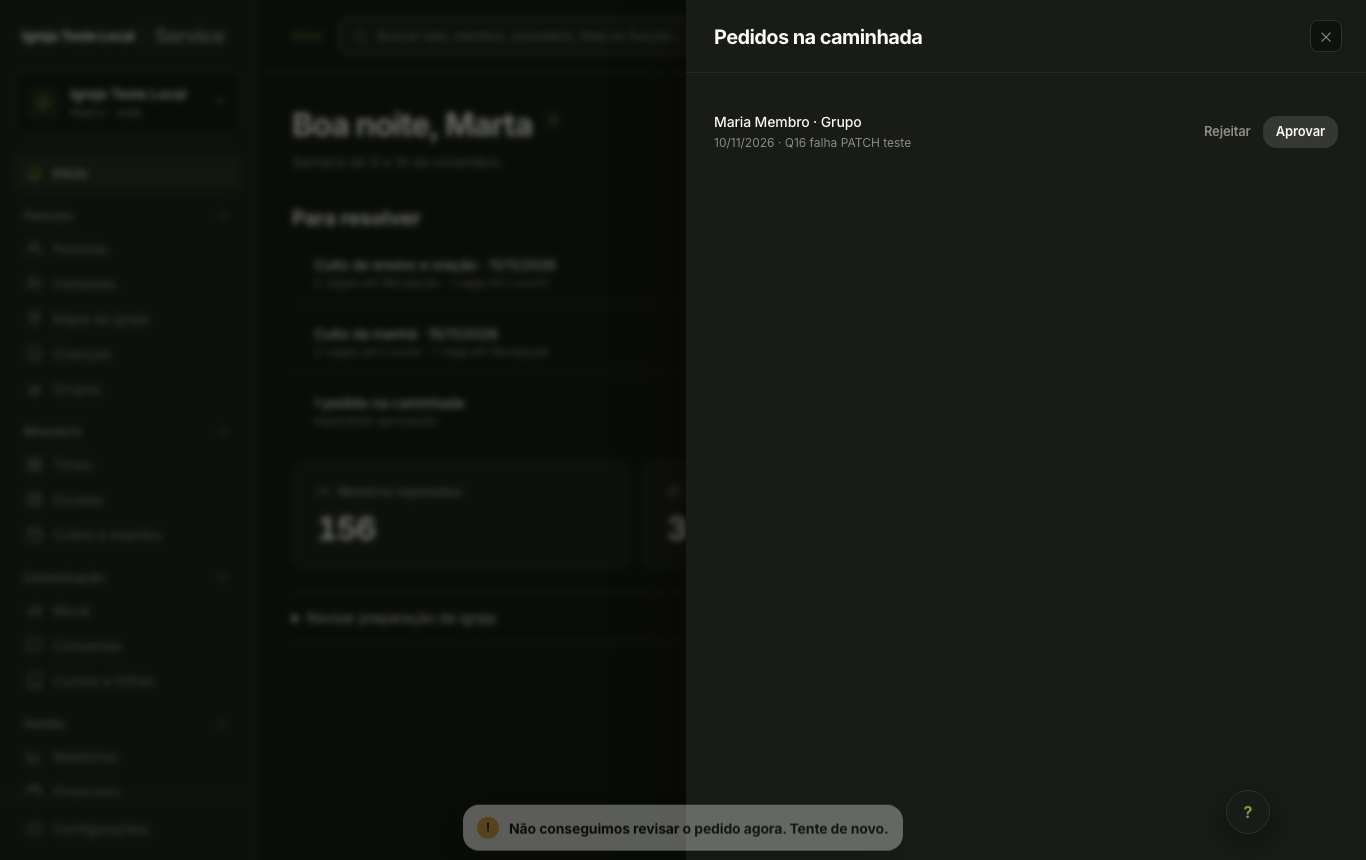
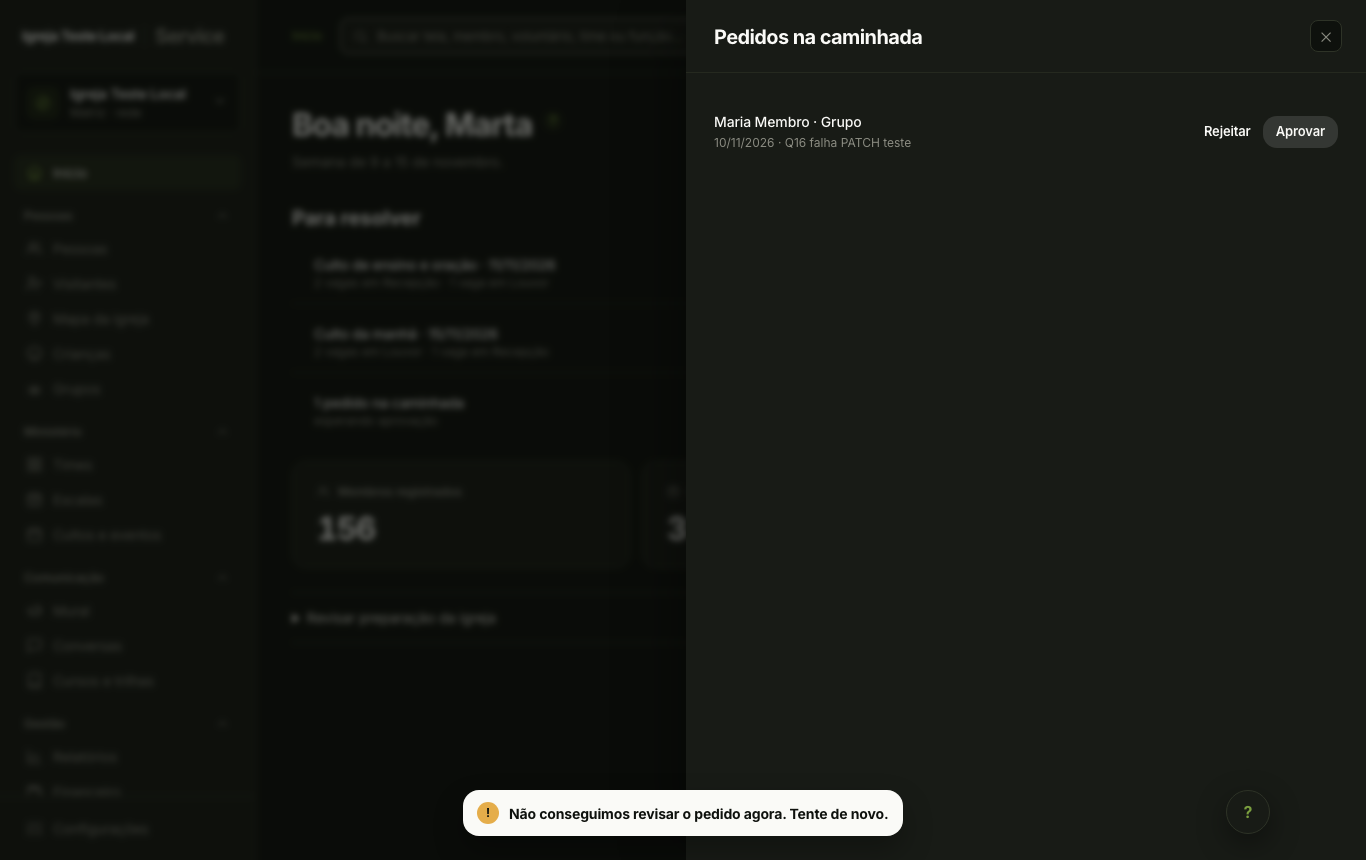
docs(service): refaz fotos de aviso da Q16

Changed region(s): [[0.3382, 0.907, 0.6764, 0.9977], [0.8917, 0.1512, 0.9224, 0.1814]]

diff --git a/docs/service-v7/historias/Q16-pedido-caminhada-uma-vez.md b/docs/service-v7/historias/Q16-pedido-caminhada-uma-vez.md
@@ -71,12 +71,12 @@ A decisão segue a Q15, sem redesenhar alternativas. Como conferência funcional
 
 `writeJourneyStep` agora propaga erros tanto do evento quanto da atualização da jornada e lança erro se não encontra a linha do membro. Aprovar e rejeitar validam o contexto, o membro, o `update` e a linha atualizada. As notificações de resultado só são enviadas após as gravações. A folha captura a rejeição, mantém o pedido e libera os botões no `finally`.
 
-Reprodução no navegador local: interceptado apenas `PATCH /rest/v1/journey_change_requests` e respondido com 500. A foto `Q16-falha.png` mostra a Gaveta com Maria ainda listada, aviso “Não conseguimos revisar o pedido agora. Tente de novo.” e botões ativos. Removida a interceptação, Aprovar retornou PATCH 200; `Q16-recuperado.png` mostra a Gaveta sem pendências e a linha removida (contagem 1 → 0). Ambas as fotos foram abertas; MD5: falha `0217f8d24dc326bd778eb3398a784a95`, recuperação `b63c74b47da8f5f6bbd41beac12ac4d9`.
+Reprodução no navegador local: interceptado apenas `PATCH /rest/v1/journey_change_requests` e respondido com 500. Na nova captura, aguardei o aviso `.toast.toast-warn` ficar visível, `opacity === "1"` e sem animações em execução. A foto `Q16-falha.png` aberta mostra a Gaveta com Maria ainda listada, o texto “Não conseguimos revisar o pedido agora. Tente de novo.” legível e botões ativos. Removida a interceptação, Aprovar retornou PATCH 200; `Q16-recuperado.png` mostra a Gaveta sem pendências e a linha removida (contagem 1 → 0). MD5 da nova falha `682ee44def0ab05e8547e79241599eec`; recuperação `b63c74b47da8f5f6bbd41beac12ac4d9`.
 
 Banco após limpeza: pedido criado para o teste removido, dois eventos de integração gerados pelas tentativas removidos, jornada da Maria restaurada em `[1,1,0,0,1]`; contagem global de pedidos `0`. A falha simulada atingiu o PATCH depois da gravação da etapa, por isso os eventos e o índice da jornada precisaram ser restaurados.
 
 ## Correção do JornadaEditModal antes do merge
 
-`salvar` agora mantém `onRefresh` e `onClose` no caminho de sucesso, avisa com o termo da igreja em caso de falha e sempre redefine `saving` no `finally`. Teste no painel local, ficha de Maria: interceptado `PATCH /rest/v1/members` com 500. `Q16-modal-falha.png` aberta: modal continua aberto, aviso aparece e Salvar está ativo. Sem interceptação, o PATCH real retornou 200 e o modal fechou; `Q16-modal-salvo.png` aberta mostra a ficha. MD5: falha `4ccdcc959309b5ea256c91fd148efd66`, salvo `375c3f84aca541204f924300b3d3a938`.
+`salvar` agora mantém `onRefresh` e `onClose` no caminho de sucesso, avisa com o termo da igreja em caso de falha e sempre redefine `saving` no `finally`. Teste no painel local, ficha de Maria: interceptado `PATCH /rest/v1/members` com 500. Na nova captura, aguardei o aviso `.toast.toast-warn` ficar visível, com `opacity === "1"` e sem animações em execução. `Q16-modal-falha.png` aberta mostra o modal ainda aberto, o aviso “Não conseguimos salvar a caminhada. Tente de novo.” legível e Salvar ativo. Antes de salvar novamente, aguardei `.toast` chegar a zero elementos. Sem interceptação, o PATCH real retornou 200 e o modal fechou; `Q16-modal-salvo.png` aberta não mostra o aviso anterior. MD5: modal-falha `391c99b07d98b05c33fdea5a4ef9e6a3`, modal-salvo `1a89355266acb1c64f93d07aff8a3c02`.
 
-Limpeza: os dois eventos da tentativa foram removidos, jornada da Maria restaurada a `[1,1,0,0,1]`, nenhum pedido pendente. O aviso anterior permanece visível sobre o drawer na captura após fechar o modal; o problema de camada foi adicionado ao PENDENTES, sem correção nesta entrega.
+Limpeza confirmada no banco local: pedido removido, quatro eventos de teste removidos, jornada da Maria restaurada a `[1,1,0,0,1]`, pedidos pendentes `0` e eventos de teste restantes `0`. As três fotos refeitas têm MD5 distintos. O aviso usa `.toast-host` com `z-index: 120`, acima do drawer e do modal; as capturas antigas foram feitas durante o fade ou antes do aviso anterior sair, não havia defeito de camada.

diff --git a/docs/service-v7/PENDENTES.md b/docs/service-v7/PENDENTES.md
@@ -52,7 +52,6 @@ A ordem vai do que destrava mais para o que destrava menos. Decisões do usuári
 - Links de texto (variante texto, panel-link e m6-link): revisar a hierarquia e o uso da cor da igreja; fora da Q13 por decisão do usuário.
 - Aprovar pedido da {caminhada} grava a etapa e depois o pedido; se o segundo passo falhar e houver nova tentativa, duplica o fato na linha do tempo. Unificar em uma RPC.
 - JornadaEditModal, ao marcar várias etapas, grava cada uma a partir da jornada antiga; em `members.journey` só fica a última etapa.
-- Em Gaveta, o aviso de `avisar()` aparece atrás do escurecido.
 
 ### 4. Código independente (dá para tocar em paralelo, se os trilhos não esbarrarem)
 - **I2** Ações do Início que não navegam · **I5** Ajuda com menos repetição
